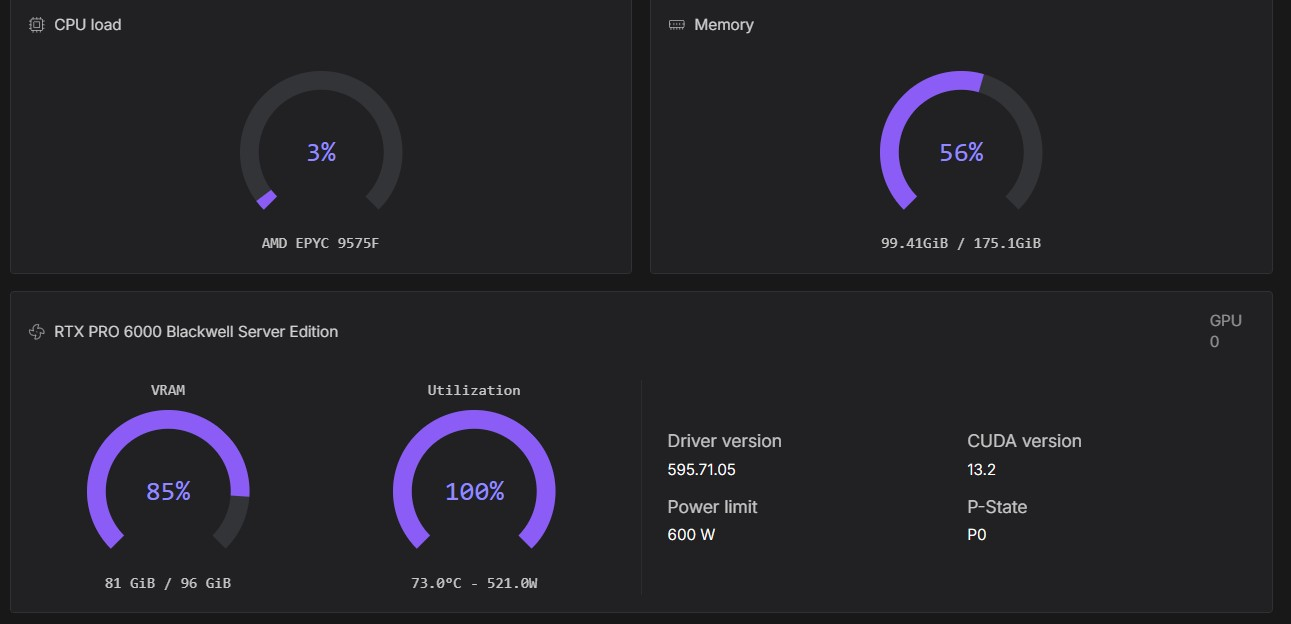
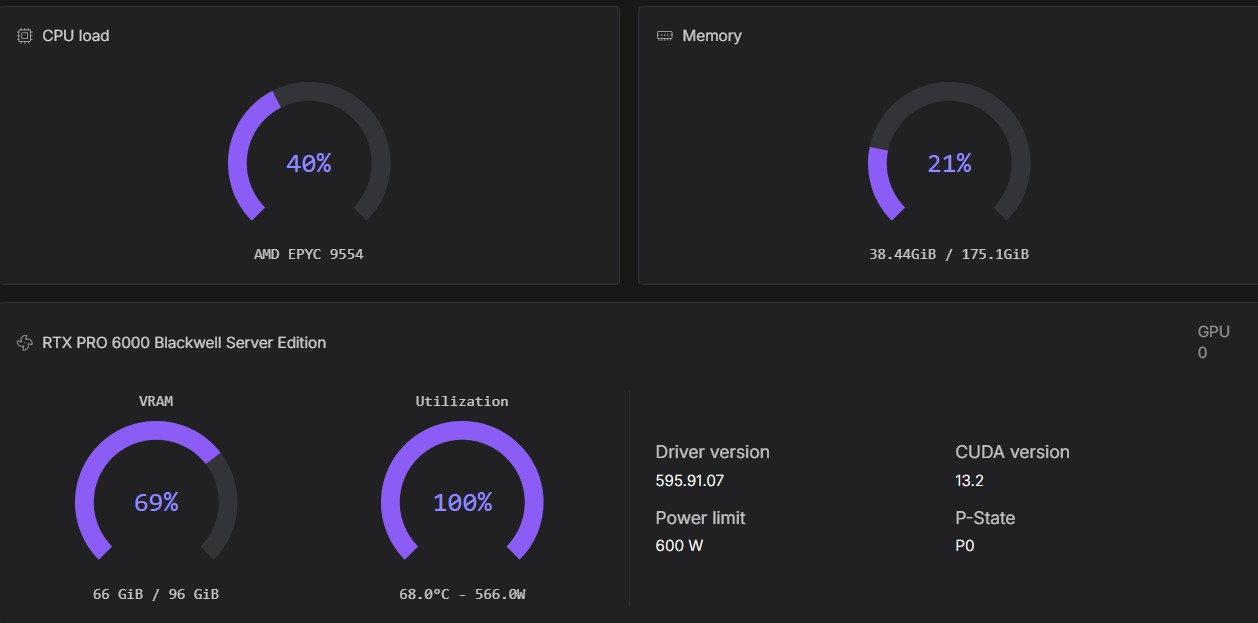
Updated images

diff --git a/Runpod_pod_deployment.md b/Runpod_pod_deployment.md
@@ -88,14 +88,18 @@ The extraction ends with a message like this in the **Logs** section:
 
 ### Copy ComfyUI from container to workspace
 
-- The time required to copy ComfyUI from the container to the workspace is a useful indicator of overall system performance. Depending on the hardware, this process typically takes between **0 and 100 seconds**. If the copy operation stalls or takes longer than **120 seconds**, consider starting another pod and comparing its performance. A slow copy operation often indicates storage or system performance issues that can also cause problems when extracting models or loading them from disk into the GPU's video memory (VRAM).
+- The time required to copy ComfyUI from the container to the workspace is a useful indicator of overall system performance. Depending on the hardware, this process typically takes between **0 and 110 seconds**. If the copy operation stalls or takes longer than **120 seconds**, consider starting another pod and comparing its performance. A slow copy operation often indicates storage or system performance issues that can also cause problems when extracting models or loading them from disk into the GPU's video memory (VRAM).
 - Acceptable performance 1Gb/30seconds
 
-#### Excellent performing pod
+#### Excellent performance
 
 ![perfect](images/runpod_deploy_comfyuionworkspace_perfect.jpg)
 
 ![good](images/runpod_deploy_comfyuionworkspace.jpg)
+
+#### Acceptable performance
+
+![acceptable](images/runpod_deploy_comfyuionworkspace_medium.jpg)
 
 #### Bad pod: not acceptable performance
 
